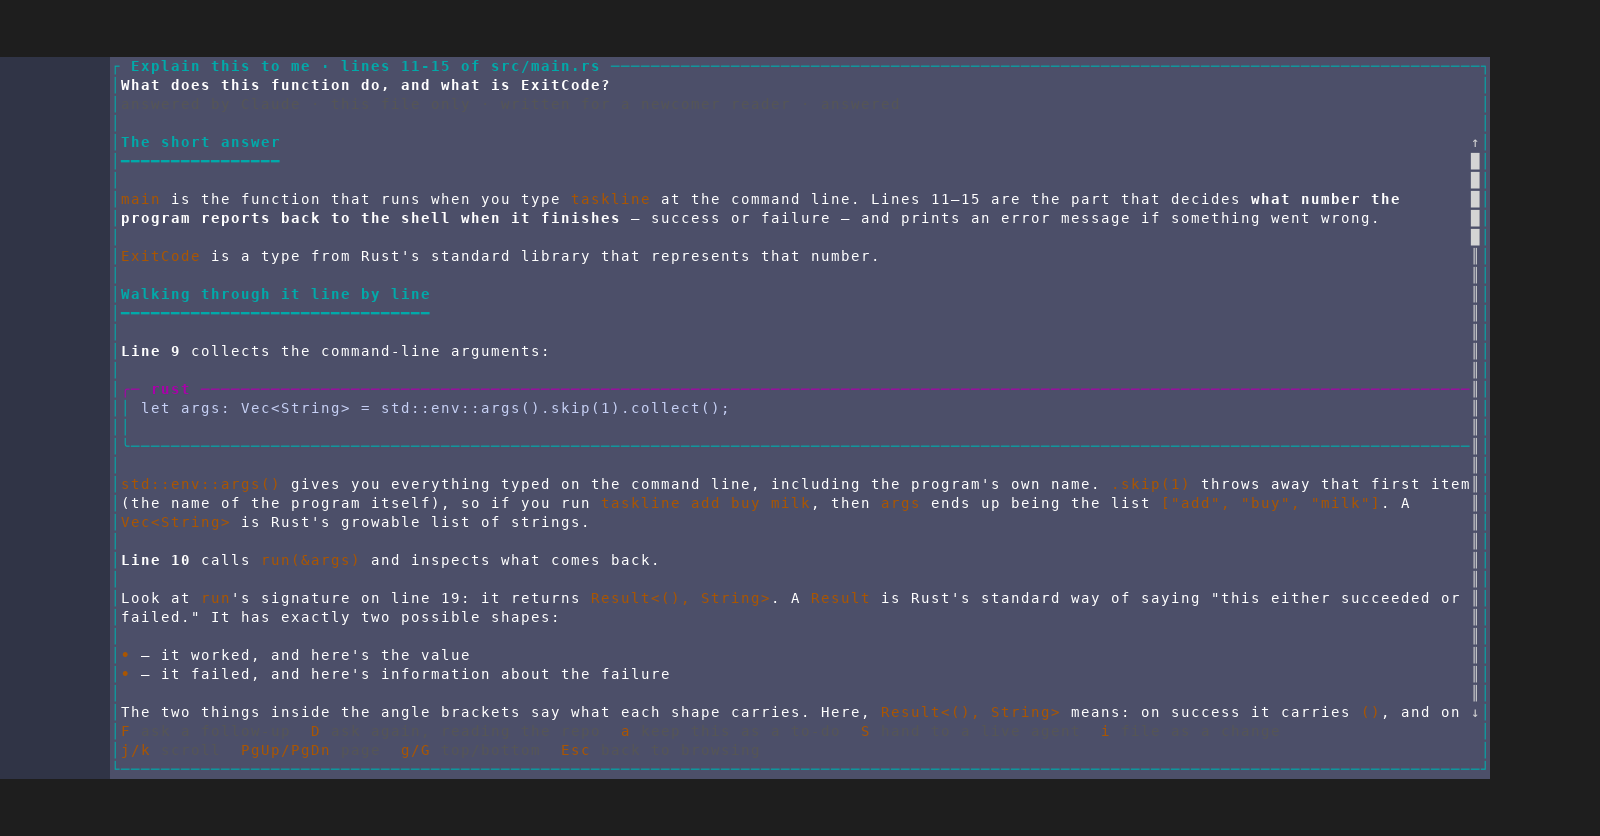
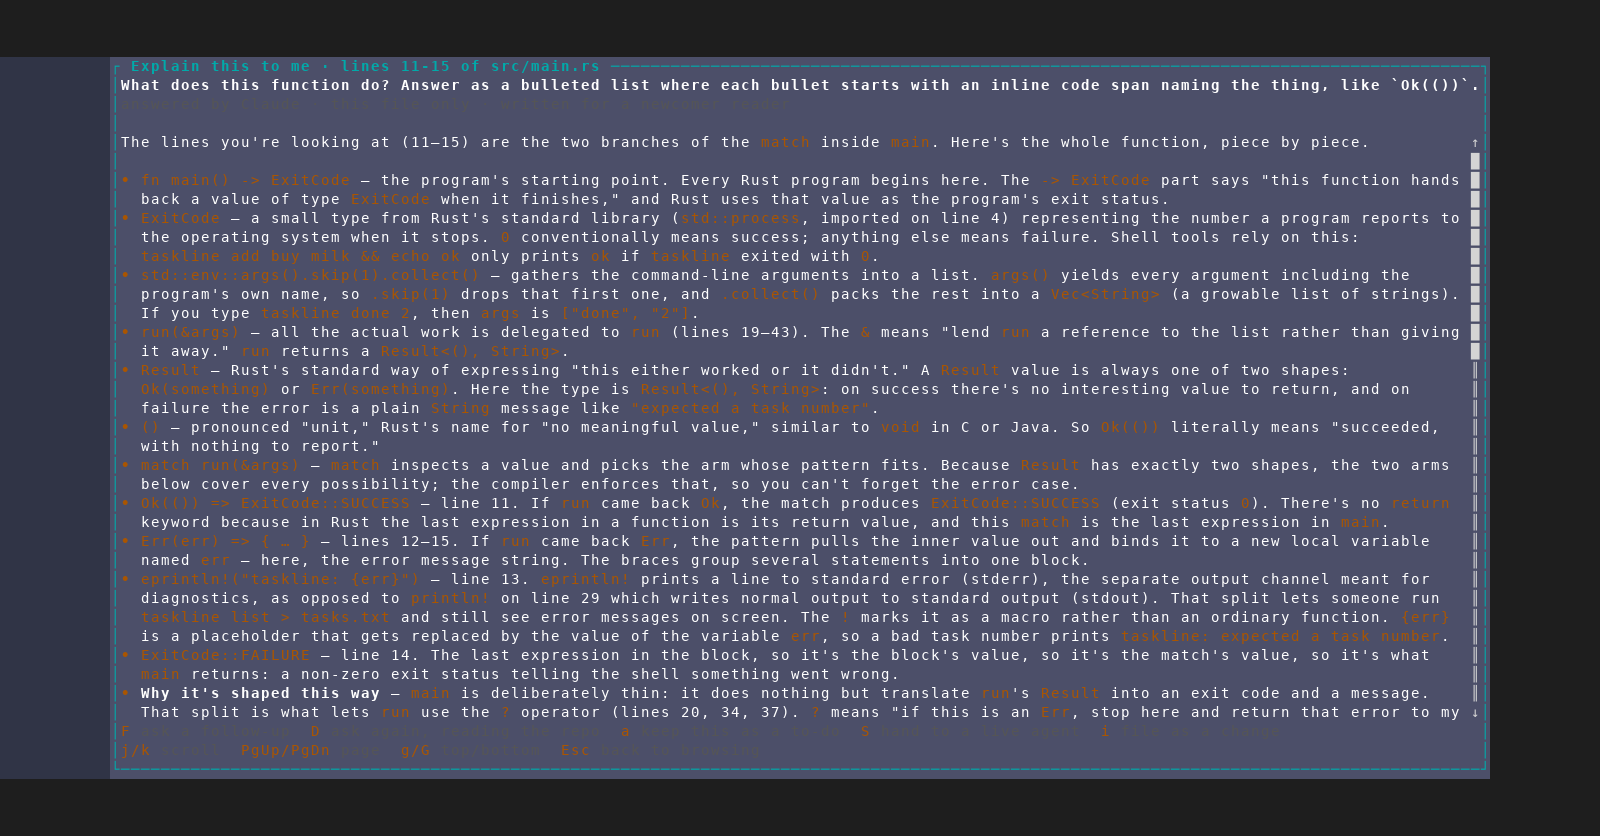
docs: changelog, plan, and a fresh capture of the whole run
Recaptures all thirteen frames against this branch's head so every shot
shows what the PR actually ships, rather than a pre-fix build: frame 11
is now the regression shot for the markdown fix (its answer is a bulleted
list whose every bullet opens with inline code — the shape that used to
render blank), and a new frame 13 covers handing an answer to a live
agent, which had no screenshot at all.

The pre-fix frame is kept as before-inline-code-dropped.png, since
reading a rendered answer is what exposed both defects and neither would
have been caught by a test written against the same assumption as the bug.

Changelog gains an Unreleased section for `S`, the renderer fix, and the
provenance line.

diff --git a/docs/screenshots/learning-mode/README.md b/docs/screenshots/learning-mode/README.md
@@ -6,8 +6,8 @@ Captured from an isolated, throwaway AMF instance
 scratch `taskline` repo seeded with a `README.md`, `CLAUDE.md`, `Cargo.toml`
 and `src/main.rs` so the pinned **Start here** group has real files to find.
 
-Frames 009–011 span one real headless `claude` run — the answer is a live
-call, not a fixture.
+Frames `009`–`011` span one real headless `claude` run, and `013` starts a
+real interactive session — the answers are live calls, not fixtures.
 
 | Frame | What it shows |
 | --- | --- |
@@ -21,25 +21,26 @@ call, not a fixture.
 | `008-question-typed` | `e` — "explain this to me", the teaching intent. |
 | `009-asking-in-flight` | Non-blocking: the row reads `thinking…` and the header counts `1 answer still generating`. |
 | `010-answered` | The run lands; the row flips to `answered` and the counter clears. |
-| `011-answer-markdown` | The answer as rendered markdown — headings, a fenced Rust block, inline code — with the newcomer template defining `ExitCode`, `Result` and `Vec<String>` before using them. |
+| `011-answer-markdown` | The answer as rendered markdown, and the regression shot for the fix below — every bullet keeps the inline code span it opens with, and the provenance line states the status once. |
 | `012-follow-up-prompt` | `F` keeps the parent's place (`lines 11-15`, though the file list moved since) and says so. |
-| `013-answer-markdown-fixed` | The same pane after the two fixes below: every bullet keeps the inline code it opens with, and the provenance line states the status once. |
+| `013-escalate-composer` | `S` hands the answer to a live agent: a real session titled `Learning: src/main.rs:11-15`, its composer pre-filled with the anchor, question and answer and **not** sent (`Enter send` still offered), closing on the line that says this is the one place the read-only promise ends. Claude's own first-run "trust this folder" gate is visible behind it. |
 
-## Two nits caught in `011`, fixed in `013`
+## The two defects this capture exposed
 
-`011` is kept as the before-shot for two defects it exposed:
+`before-inline-code-dropped.png` is the pre-fix version of frame `011`, kept
+because reading the rendered answer — rather than the code that produces
+it — is what surfaced both, and neither would have been caught by a unit test
+written against the same assumptions as the bug.
 
-- **Inline code opening a list item was dropped** — `` `Ok(())` — it worked``
-  rendered as `• — it worked`. `MarkdownRenderer::push_inline_text` only
-  appended when a text block was already open, and a *tight* list item carries
-  its content with no `Tag::Paragraph` around it, so whatever came first had
-  nowhere to land. Task-list checkboxes and footnote bodies opening with inline
-  code were dropped for the same reason. It now opens the block itself.
-- **The answer pane said its status twice** — "answered by Claude · … ·
-  answered" — and said "answered by" of a row that hadn't answered yet. The
-  status is now carried by the opening verb alone (`Claude is answering`,
-  `queued for Claude`, `Claude couldn't answer`).
-
-`013-answer-markdown-fixed` is a fresh run asking for an answer written as a
-bulleted list whose every bullet opens with an inline code span — the shape
-that used to come out blank. All nine bullets keep their code.
+- **The shared markdown renderer dropped whatever opened a list item.**
+  `` `Ok(())` — it worked`` rendered as `• — it worked`.
+  `MarkdownRenderer::push_inline_text` only appended when a text block was
+  already open, and a *tight* list item carries its content with no
+  `Tag::Paragraph` around it, so the first inline event had nowhere to land.
+  Task-list checkboxes (always first in their item) and footnote bodies
+  opening with inline code went the same way. The block is now opened at that
+  single point. The fix is shared with every markdown surface in AMF.
+- **The answer pane stated its status twice** — "answered by Claude · … ·
+  answered" — and said "answered by" of a row that had not answered. The
+  status now rides the opening verb alone: `Claude is answering`,
+  `queued for Claude`, `Claude couldn't answer`.

diff --git a/docs/backlog/learning-mode-plan.md b/docs/backlog/learning-mode-plan.md
@@ -1014,6 +1014,31 @@ picked up in parallel with whatever is left of Epics 5 and 6.
 
 ### Epic 6 — Hardening and docs
 
+- [x] Capture the mode end to end and fix what the capture exposed.
+      Thirteen frames in `docs/screenshots/learning-mode/` (scenario
+      `scripts/dev/screenshot/scenarios/learning-mode.txt`), driven
+      against a throwaway instance seeded with a small demo repo, with
+      one real headless Claude run. Reading the rendered answer — rather
+      than the code that produces it — is what surfaced both defects
+      below, neither of which any unit test would have caught:
+      - **The shared markdown renderer dropped whatever opened a list
+        item.** `push_inline_text` only appended when a text block was
+        already open, and a *tight* list item carries its content with
+        no `Tag::Paragraph` around it, so the first inline event had
+        nowhere to land: `` `Ok(())` — it worked`` rendered as `• — it
+        worked`. Task-list checkboxes (always first in their item) and
+        footnote bodies opening with inline code went the same way. The
+        block is now opened at that single point rather than by each
+        caller remembering to. This bites Learning Mode hardest, because
+        a newcomer-pitched answer is written in exactly that shape, but
+        the fix is shared with every markdown surface in AMF. Tests:
+        `render_markdown_keeps_whatever_opens_a_list_item`,
+        `render_markdown_keeps_inline_code_opening_a_footnote_body`.
+      - **The answer pane stated its status twice** ("answered by Claude
+        · … · answered") and said "answered by" of a row that hadn't
+        answered. The status now rides the opening verb alone
+        (`answer_provenance`), covered by
+        `the_answer_pane_states_its_provenance_once`.
 - [x] Close the honesty gaps found by using the finished surface — each
       one a case where the UI stated something the code didn't
       guarantee:

diff --git a/CHANGELOG.md b/CHANGELOG.md
@@ -10,7 +10,36 @@ are tagged.
 
 ## [Unreleased]
 
-_No unreleased changes yet._
+### Added
+
+- **Hand a Learning Mode answer to a live agent.** `S` on an answered entry —
+  in the history or while reading the answer — opens an agent session on the
+  feature with the composer already filled in: the file and lines you asked
+  about, the code itself, your question, and the answer you got. Nothing is
+  sent until you send it, so you can edit or delete the whole thing first.
+  This is the one way out of the mode's read-only promise, and the message
+  says so in its closing line. Pressing `S` again on the same entry returns to
+  that conversation rather than starting a second one; if you have since
+  closed that session, a fresh one starts and AMF tells you which happened.
+
+### Fixed
+
+- **Lists no longer lose whatever they start with.** Anywhere AMF renders
+  markdown — Learning Mode answers, the markdown viewer, plan review, PR
+  triage — a bullet that began with code showed only the rest of the line
+  (`• — it worked` instead of `` `Ok(())` — it worked``). Task list
+  checkboxes vanished for the same reason, so `- [ ] not done` lost its box
+  entirely. This hit Learning Mode hardest, because answers written for a
+  newcomer explain things in exactly that shape.
+- **Learning Mode's answer view no longer repeats itself.** The line above an
+  answer said "answered" twice, and claimed an answer was "answered by
+  Claude" while it was still being written. It now reads once and matches
+  what is actually happening: `Claude is answering`, `queued for Claude`, or
+  `Claude couldn't answer`.
+
+### Migration
+
+No migration is required.
 
 ## [v0.35.0] - 2026-08-12
 
